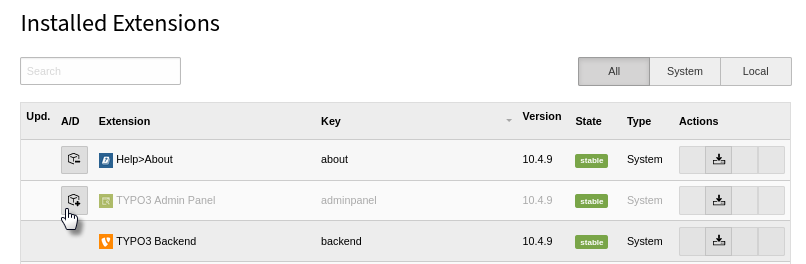
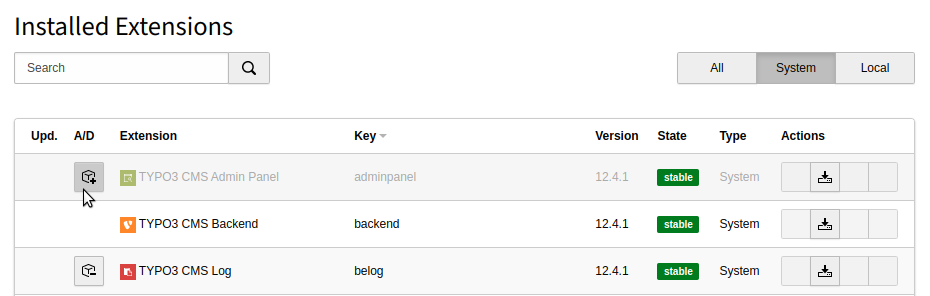
[DOCS] Add SQL and memory metrics to admin panel toolbar
The new metrics about SQL and memory are added to the admin panel documentation.

Additionally, some screenshots are adjusted for v12.4.

Resolves: #100882
Resolves: https://github.com/TYPO3-Documentation/Changelog-To-Doc/issues/424
Related: #100167
Releases: main, 12.4

diff --git a/Documentation/Introduction/Index.rst b/Documentation/Introduction/Index.rst
@@ -18,15 +18,21 @@ You can use it to simulate scenarios to test page content, for example, user
 groups, time-restricted content or showing hidden content. You can also use it
 for general debugging.
 
-The bar shows a summary of information about the page, including the number of
-TypoScript messages, page load time, a count of any errors and warnings, and
-a link to the according page in the backend.
+The bar shows a summary of information about the page, an option to adjust the
+settings and a link to the according page in the backend.
 
 .. figure:: ../Images/UIAdminPanelBar.png
    :alt: The admin panel bar
    :class: with-border
 
    The admin panel bar displayed at the bottom of the page on the frontend
+
+Some important metrics are displayed right in the admin panel bar:
+
+*   **TypoScript:** number of messages
+*   **Info:** page load time / peak memory usage
+*   **Debug:** number of errors and warnings / amount of SQL queries /
+    time spent executing SQL queries
 
 From the bar you can open a larger panel to access detailed information about
 the page.

diff --git a/Documentation/Installation/Index.rst b/Documentation/Installation/Index.rst
@@ -24,7 +24,7 @@ This should either give you no result or something similar to:
 
 ..  code-block:: none
 
-    typo3/cms-adminpanel v11.5.9
+    typo3/cms-adminpanel v12.4.1
 
 If it is not installed yet, use the ``composer require`` command to install
 the extension:

diff --git a/Documentation/Inspecting/Debug/Index.rst b/Documentation/Inspecting/Debug/Index.rst
@@ -77,3 +77,7 @@ placeholders.
    :class: with-border
 
    The values used in a query run on the page
+
+..  note::
+    The list of SQL queries misses around 20 boot queries as they are executed
+    before logging is enabled.
